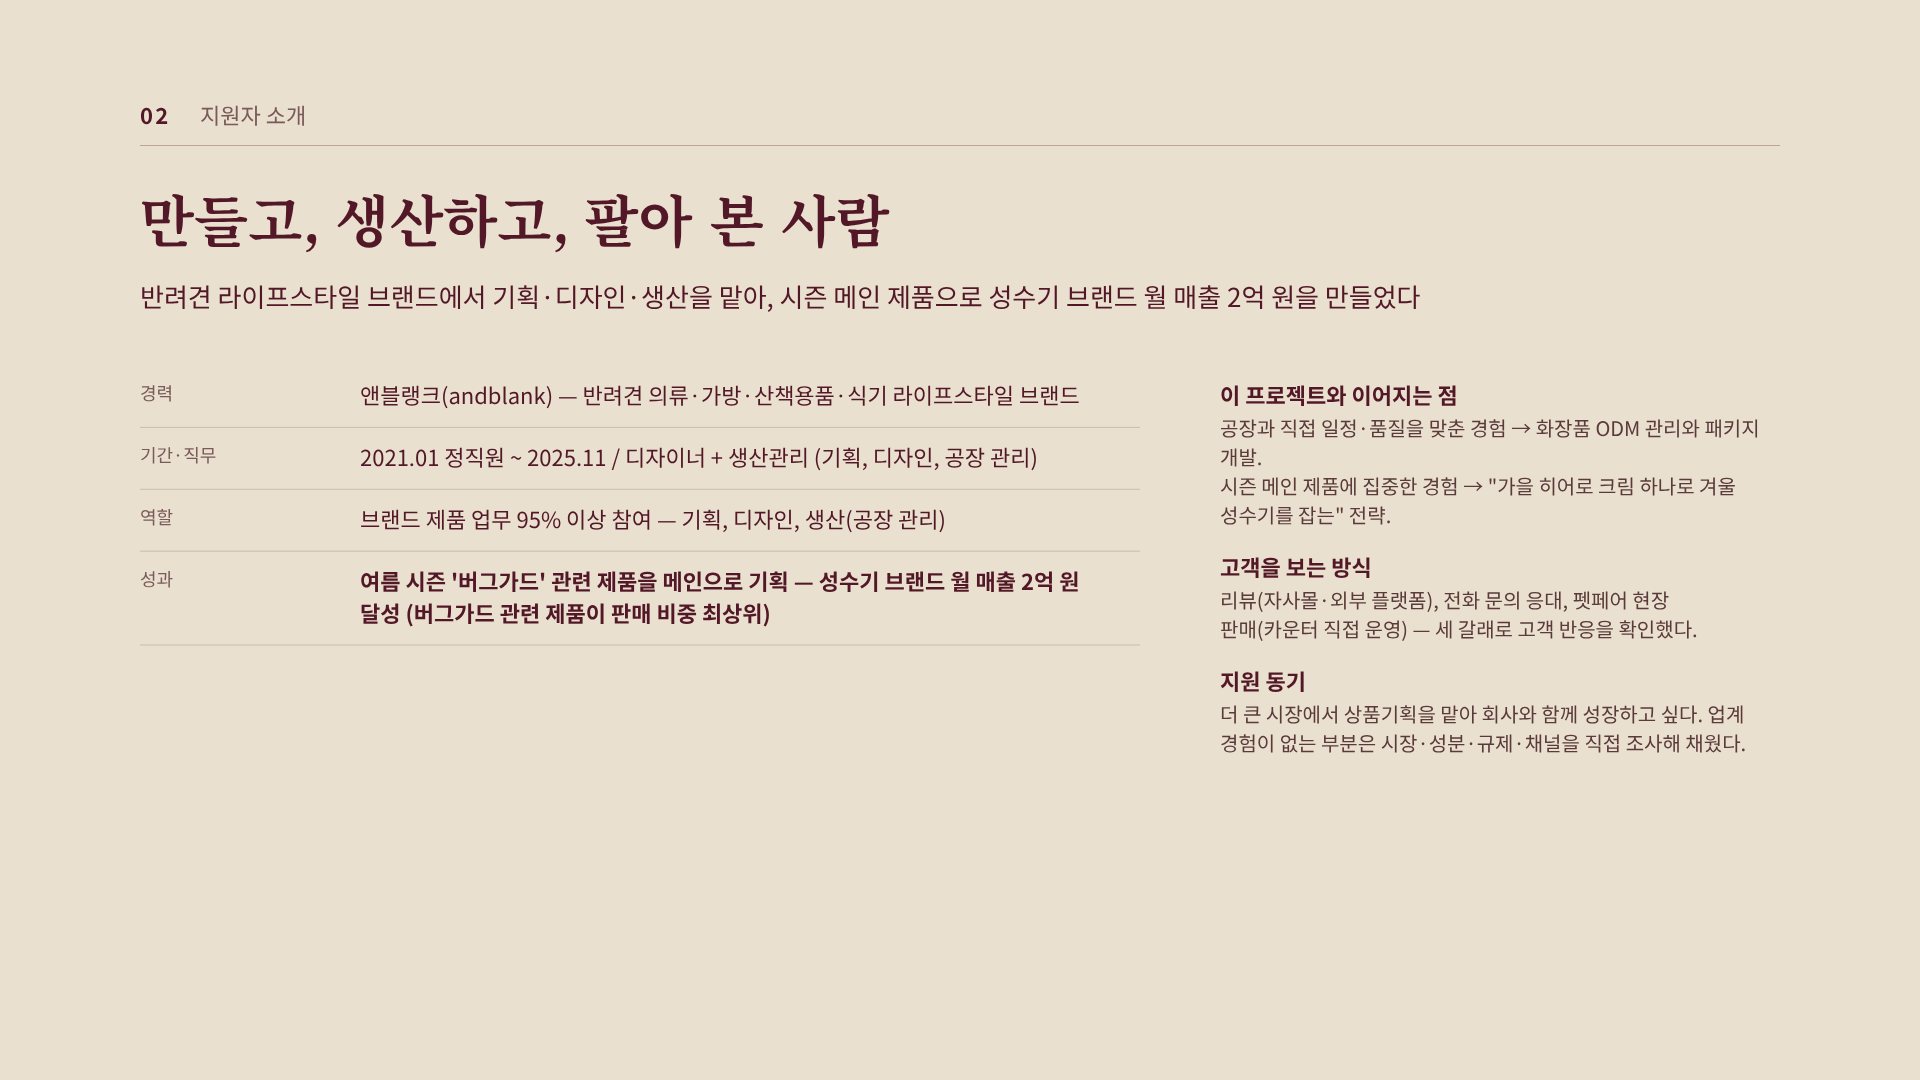
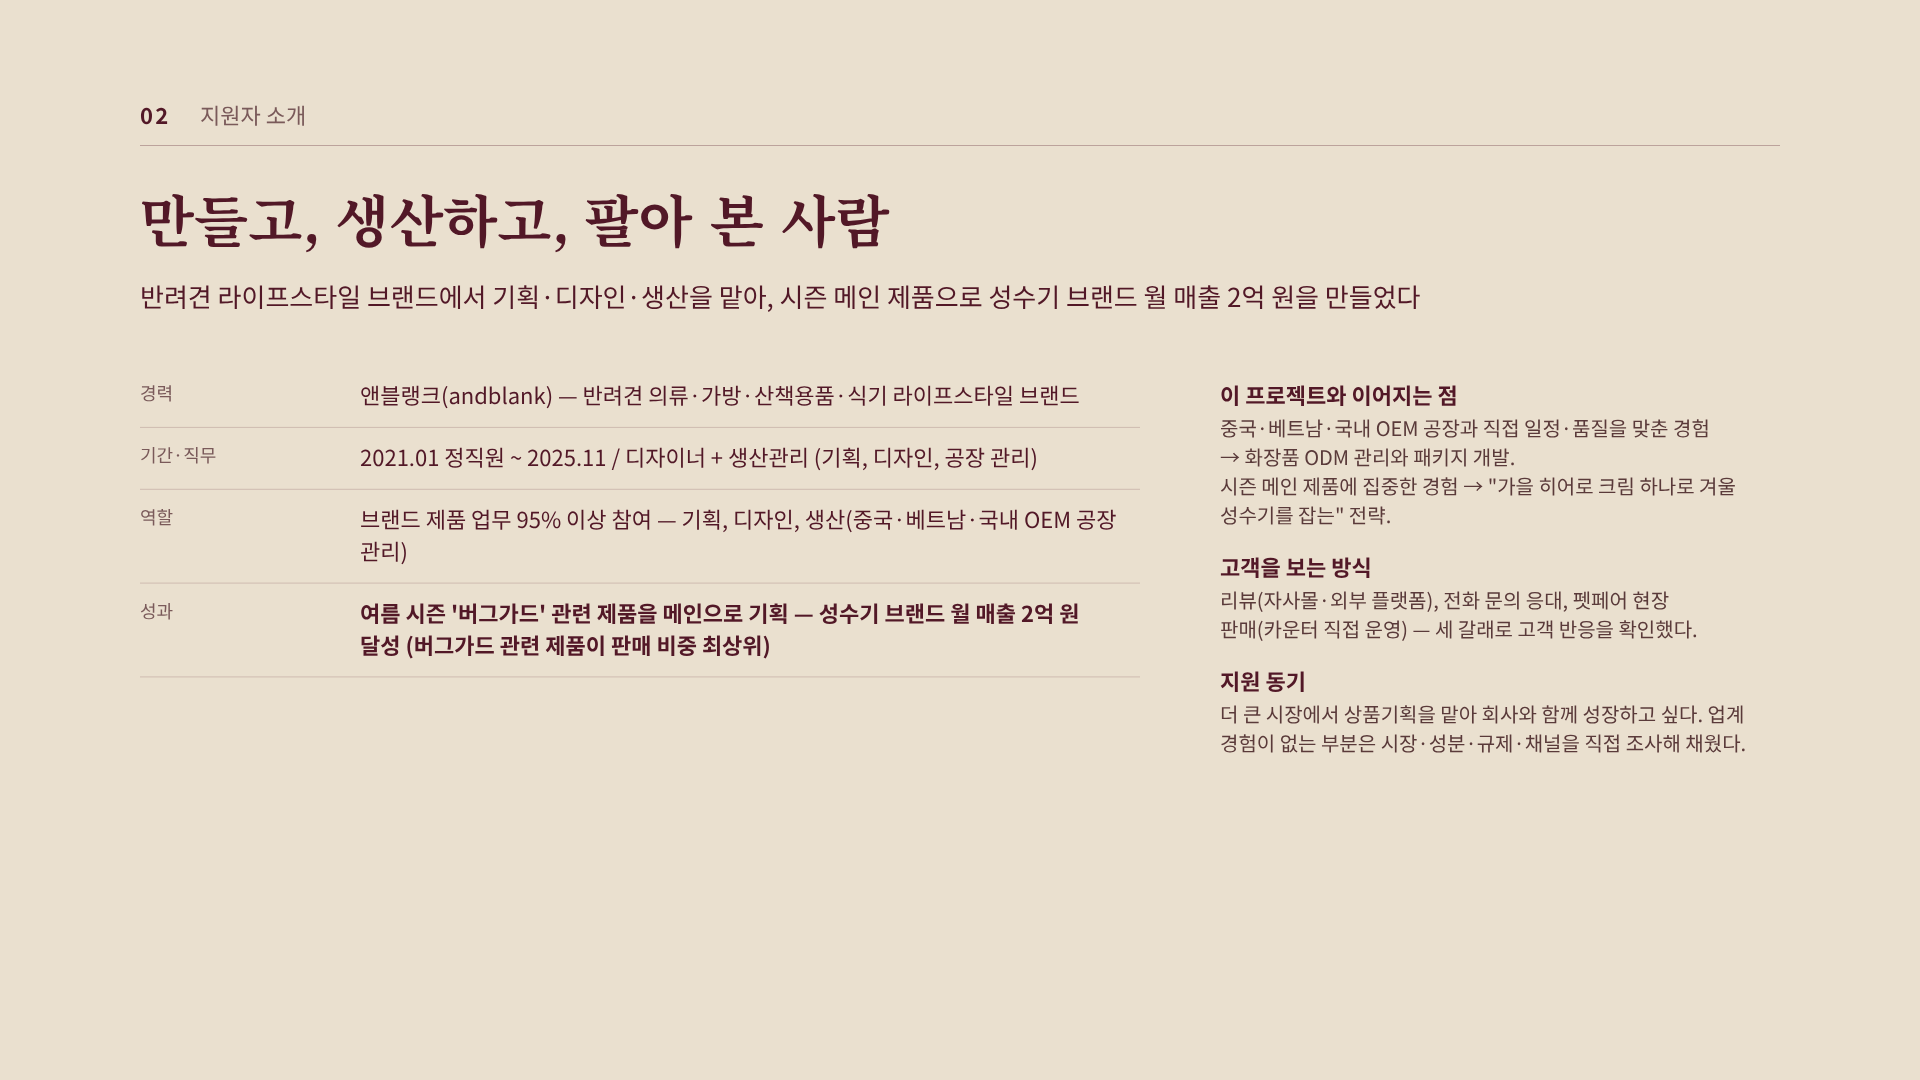
경력 사실(중국·베트남·국내 OEM) 반영: 원고 0-1·면접 준비·지원사별 준비·슬라이드 02 + 클리오 BM 인턴 준비
Claude-Session: https://claude.ai/code/session_01MXYaLybSstgexbFSnpQ7Pc

diff --git a/포트폴리오/figma_svg/src/sA.py b/포트폴리오/figma_svg/src/sA.py
@@ -2,8 +2,8 @@ from lib import *
 AI="AI로 생성한 가상 브랜드 목업 (일부 합성·보정)"
 def s02():
     s=std(2,"지원자 소개","만들고, 생산하고, 팔아 본 사람","반려견 라이프스타일 브랜드에서 기획·디자인·생산을 맡아, 시즌 메인 제품으로 성수기 브랜드 월 매출 2억 원을 만들었다")
-    table(s,140,380,[220,780],[["경력","앤블랭크(andblank) — 반려견 의류·가방·산책용품·식기 라이프스타일 브랜드"],["기간·직무","2021.01 정직원 ~ 2025.11 / 디자이너 + 생산관리 (기획, 디자인, 공장 관리)"],["역할","브랜드 제품 업무 95% 이상 참여 — 기획, 디자인, 생산(공장 관리)"],["성과","여름 시즌 '버그가드' 관련 제품을 메인으로 기획 — 성수기 브랜드 월 매출 2억 원 달성 (버그가드 관련 제품이 판매 비중 최상위)"]],firstMute=True,gap=30,bold=lambda r,c:r==3 and c==1)
-    bullets(s,1220,380,560,[("이 프로젝트와 이어지는 점","공장과 직접 일정·품질을 맞춘 경험 → 화장품 ODM 관리와 패키지 개발.\n시즌 메인 제품에 집중한 경험 → \"가을 히어로 크림 하나로 겨울 성수기를 잡는\" 전략."),("고객을 보는 방식","리뷰(자사몰·외부 플랫폼), 전화 문의 응대, 펫페어 현장 판매(카운터 직접 운영) — 세 갈래로 고객 반응을 확인했다."),("지원 동기","더 큰 시장에서 상품기획을 맡아 회사와 함께 성장하고 싶다. 업계 경험이 없는 부분은 시장·성분·규제·채널을 직접 조사해 채웠다.")],22)
+    table(s,140,380,[220,780],[["경력","앤블랭크(andblank) — 반려견 의류·가방·산책용품·식기 라이프스타일 브랜드"],["기간·직무","2021.01 정직원 ~ 2025.11 / 디자이너 + 생산관리 (기획, 디자인, 공장 관리)"],["역할","브랜드 제품 업무 95% 이상 참여 — 기획, 디자인, 생산(중국·베트남·국내 OEM 공장 관리)"],["성과","여름 시즌 '버그가드' 관련 제품을 메인으로 기획 — 성수기 브랜드 월 매출 2억 원 달성 (버그가드 관련 제품이 판매 비중 최상위)"]],firstMute=True,gap=30,bold=lambda r,c:r==3 and c==1)
+    bullets(s,1220,380,560,[("이 프로젝트와 이어지는 점","중국·베트남·국내 OEM 공장과 직접 일정·품질을 맞춘 경험\n→ 화장품 ODM 관리와 패키지 개발.\n시즌 메인 제품에 집중한 경험 → \"가을 히어로 크림 하나로 겨울 성수기를 잡는\" 전략."),("고객을 보는 방식","리뷰(자사몰·외부 플랫폼), 전화 문의 응대, 펫페어 현장 판매(카운터 직접 운영) — 세 갈래로 고객 반응을 확인했다."),("지원 동기","더 큰 시장에서 상품기획을 맡아 회사와 함께 성장하고 싶다. 업계 경험이 없는 부분은 시장·성분·규제·채널을 직접 조사해 채웠다.")],22)
     return s
 def s03():
     s=std(3,"기획 배경","왜 지금, 왜 장벽인가","이미 1위가 있는 장벽 크림 시장에서, 신규 브랜드는 무엇으로 선택받을 수 있는가?","근거: 한국신용평가 산업 보고서 · 화해 트렌드 리포트 보도(2026) · 화해 글로벌 랭킹(2026-11) · Forbes(2026) · 네이버 데이터랩(2025-11~2026-11)")

diff --git a/포트폴리오/지원사별_준비.md b/포트폴리오/지원사별_준비.md
@@ -34,7 +34,7 @@
 |---|---|---|
 | 시즌 메인 상품(버그가드) 기획 | 히어로 SKU 선정·시즌 출시 기획, 판매 비중 최상위 제품군 운영 | ANUA (우대: 히어로 제품 기획) |
 | 리뷰·전화 문의·펫페어 반응 확인 | 소비자 VOC 수집·분석 → 다음 기획 반영 | ANUA (필수: 소비자 데이터 기반 기획) |
-| 공장 일정·품질 관리 | 제조사(OEM/ODM) 생산 일정·품질 관리, 납기 조율 | NINELESS (필수), ANUA (필수: 개발 일정 관리) |
+| 공장 일정·품질 관리 (**중국·베트남·국내 OEM**) | 해외·국내 제조사(OEM/ODM) 생산 일정·품질 관리, 납기 조율, 해외 협력사 커뮤니케이션 | NINELESS (필수), ANUA (필수: 개발 일정 관리) |
 | 판매 보고 재생산 결정 | 판매·재고 기반 수요 예측, 재생산 시점·수량 결정 | **NINELESS 필수 요건** |
 | 디자인 (제품·패키지) | 용기·단상자·라벨 등 부자재 사양 결정, 패키지 디자인 | NINELESS (부자재), 리꼼 |
 | 온결 포트폴리오 | 트렌드 리서치 → 기획안 구조화, 경쟁 9개 비교, 출시 일정 역산 | 세 곳 모두 |
@@ -91,7 +91,7 @@
 
 ### 이력서 경력란에 넣을 표현 (2장 변환표 기준)
 - 시즌 메인 상품(버그가드) 기획 → 성수기 브랜드 월 매출 2억 원
-- 제조 공장 생산 일정·품질 관리, 납기 조율
+- 중국·베트남·국내 OEM 공장 생산 일정·품질 관리, 납기 조율
 - 제품·패키지 디자인 (부자재 사양 결정)
 - 리뷰·전화 문의·펫페어 현장 판매로 고객 반응 수집 → 다음 기획 반영
 - (사실 확인 후 추가) 관리 SKU 수, 재생산 결정 사례, 부자재 발주 경험
@@ -112,13 +112,13 @@
 - 회사(④): 브랜드 페이스팩토리(홈 뷰티 디바이스), 2025 매출 79억, 2026-07 하이퍼코퍼레이션에 인수
 
 ### 자기소개 문단
-> 반려동물 라이프스타일 브랜드에서 약 5년 동안 제품 기획과 디자인, 생산관리를 함께 맡아, 기획한 제품이 공장에서 일정과 품질에 맞게 양산되도록 관리했습니다. 여름 시즌 '버그가드' 관련 제품을 메인으로 기획해 성수기 브랜드 월 매출 2억 원을 만들었고, 출시 뒤 리뷰와 문의로 들은 고객 반응을 다음 제품 개선에 반영했습니다.
+> 반려동물 라이프스타일 브랜드에서 약 5년 동안 제품 기획과 디자인, 생산관리를 함께 맡아, 중국·베트남과 국내 OEM 공장에서 기획한 제품이 일정과 품질에 맞게 양산되도록 관리했습니다. 여름 시즌 '버그가드' 관련 제품을 메인으로 기획해 성수기 브랜드 월 매출 2억 원을 만들었고, 출시 뒤 리뷰와 문의로 들은 고객 반응을 다음 제품 개선에 반영했습니다.
 > 뷰티 분야를 준비하며 기초 스킨케어 라인을 시장 조사부터 처방 방향, 출시 일정, 리스크 관리까지 직접 기획했습니다. 페이스팩토리의 디바이스 PM으로서 기획부터 양산·출시 후 개선까지 여러 부서와 협력사를 잇는 역할을 하고 싶습니다.
 
 ### 면접 대비 [해석]
 1. "디바이스(기구·회로) 경험이 없는데?" → 디자인·생산 부서와 공장 사이에서 사양·일정·품질을 맞춘 경험이 PM 업무의 핵심과 같다. 기술 사양은 입사 후 빠르게 배우겠다고 솔직히.
 2. "출시 후 개선 과제를 어떻게 정하나?" → 리뷰·문의 VOC를 모아 반복되는 불만부터 우선순위 (이전 회사 사례 — 사실 확인 필요), 온결의 지표 설계(21장)
-3. "중국 공장 소싱 경험은?" → **앤블랭크에서 해외 공장과 일한 경험이 있는지 사용자 확인 필요.** 없으면 국내 공장 관리 경험으로 답한다.
+3. "중국 공장 소싱 경험은?" → **있다 (사용자 확인 11-28): 중국·베트남 공장 OEM 작업과 국내 OEM 작업.** 해외 공장과 샘플·양산 일정, 품질 이슈를 어떻게 맞췄는지 사례 1개를 숫자(리드타임·수량)와 함께 준비한다.
 
 ---
 
@@ -137,3 +137,23 @@
 ### 짚을 점 [해석]
 - 자격이 "신입/경력 1년 미만"이라 **경력 5년은 오히려 과잉으로 보일 수 있다.** 희망 연봉을 기재해야 하므로, 신입·주니어 연봉대를 감수할지 사용자가 먼저 정한다.
 - 포트폴리오는 온결 23장 중 광고(16)·패밀리룩(17)·런칭 마케팅(14)·타깃(04~05)을 앞으로 빼서 마케팅 관점으로 보이게 하는 것을 권한다.
+
+---
+
+## 8. 클리오 — BM 인턴 (힐링버드·타입넘버, 바디헤어케어) (마감 12/11)
+
+- 공고: [사람인 55552101](https://www.saramin.co.kr/zf_user/jobs/relay/view?rec_idx=55552101) "2026년도 하반기 신입(인턴) 및 경력사원 채용" 중 **BM (인턴)** 부문 · 매출 3,289억(보도)
+- 업무 [확인]: 샘플 품평 기획·운영과 결과 정리, 국내외(미국·일본·동남아) 헤어·바디 시장·경쟁사 조사와 정기 리포팅, 소비자 리뷰 분석 → 신제품·리뉴얼 컨셉 아이디어, OEM/ODM 커뮤니케이션·샘플링 테스트 등 개발 일정·자료 관리, 상품·채널별 매출 데이터 리포트, 브랜딩 컨셉·무드보드, **상세페이지·패키지·SNS 콘텐츠 기획 지원**
+- 필수 [확인]: "상품기획·BM·브랜드 마케팅 등 유관 직무 인턴 또는 실무 경력 보유" · 우대: 뷰티 브랜드 인턴, 외국어, 헤어·바디·화장품 관심, SNS 채널 운영, **무드보드·상세페이지 등 비주얼 기획 포트폴리오** · **포트폴리오 필수**
+- 정규직 전환 조건: 공고 텍스트에서 [미확인]
+
+### 자기소개 문단
+> 반려동물 라이프스타일 브랜드에서 약 5년 동안 제품 기획과 디자인, 중국·베트남·국내 OEM 생산관리를 맡아, 시즌 메인 제품으로 성수기 브랜드 월 매출 2억 원을 만들었습니다. 리뷰·문의·현장 판매에서 고객 반응을 모아 다음 기획에 반영해 왔습니다.
+> 화장품 BM을 준비하며 기초 스킨케어 브랜드 '온결'을 직접 기획해, 경쟁 제품 비교와 소비자 조사부터 패키지·광고·상세페이지까지 만들었습니다. 힐링버드·타입넘버의 품평과 시장 조사, OEM 일정 관리, 상세페이지·패키지 기획을 빠르게 지원하며 BM 실무를 제대로 배우고 싶습니다.
+
+### 포트폴리오 구성 제안 [해석]
+- 우대 조건이 "무드보드·상세페이지 비주얼 기획"이라 **15 브랜딩(패키지 평면도) · 16 광고·상세페이지 · 17 패밀리룩**을 앞쪽에 둔다.
+- 헤어·바디 카테고리는 포트폴리오에 없으므로, 면접에서 "기초 라인에서 쓴 방법(경쟁 비교·리뷰 분석·출시 순서)을 헤어·바디에도 그대로 쓰겠다"로 연결한다.
+
+### 짚을 점
+- 인턴이라 처우·전환 조건을 면접에서 확인한다. 경력 5년 지원자가 인턴에 지원하는 이유("화장품 BM을 대기업에서 처음부터 제대로 배우려고")를 준비한다.

diff --git a/포트폴리오/상품기획_포트폴리오.md b/포트폴리오/상품기획_포트폴리오.md
@@ -30,10 +30,10 @@
 |---|---|
 | 경력 | 앤블랭크(andblank) — 반려견 의류·가방·산책용품·식기 라이프스타일 브랜드 |
 | 기간·직무 | 2021.01 정직원 ~ 2025.11 / 디자이너 + 생산관리 (기획, 디자인, 공장 관리) |
-| 역할 | 브랜드 제품 업무 95% 이상 참여 — 기획, 디자인, 생산(공장 관리) |
+| 역할 | 브랜드 제품 업무 95% 이상 참여 — 기획, 디자인, 생산(중국·베트남·국내 공장 OEM 관리) |
 | 성과 | 여름 시즌 '버그가드' 관련 제품을 메인으로 기획 — 성수기 **브랜드 월 매출 2억 원** 달성 (버그가드 관련 제품이 판매 비중 최상위) |
 
-- **이 프로젝트와 이어지는 점**: 공장과 직접 일정·품질을 맞춰 본 경험은 화장품 ODM 관리와 패키지 개발로 이어진다. 시즌 상품 한 개에 집중해 매출을 만든 경험은 이 기획의 "가을 히어로 크림 하나로 겨울 성수기를 잡는" 전략과 같은 방식이다.
+- **이 프로젝트와 이어지는 점**: 중국·베트남·국내 OEM 공장과 직접 일정·품질을 맞춰 본 경험은 화장품 ODM 관리와 패키지 개발로 이어진다. 시즌 상품 한 개에 집중해 매출을 만든 경험은 이 기획의 "가을 히어로 크림 하나로 겨울 성수기를 잡는" 전략과 같은 방식이다.
 - **고객을 보는 방식**: 리뷰(자사몰·외부 플랫폼), 전화 문의 응대, 펫페어 현장 판매(카운터 직접 운영)로 고객 반응을 세 갈래에서 확인했다.
 - **지원 동기**: 더 큰 시장에서 상품기획을 맡아 회사와 함께 성장하고 싶다. 화장품 업계 경험이 없는 부분은 이 기획서로 시장·성분·규제·채널을 직접 조사해 채웠다.
 

diff --git a/포트폴리오/면접준비.md b/포트폴리오/면접준비.md
@@ -6,7 +6,7 @@
 
 ## 1. 1분 자기소개
 
-> 안녕하세요. 반려견 라이프스타일 브랜드 앤블랭크에서 약 5년 동안 디자이너와 생산관리를 맡았습니다. 제품을 기획하고, 디자인하고, 공장과 직접 일정·품질을 맞추는 일을 함께 했고, 여름 시즌 '버그가드' 관련 제품을 메인으로 기획해 성수기 브랜드 월 매출 2억 원을 만들었습니다.
+> 안녕하세요. 반려견 라이프스타일 브랜드 앤블랭크에서 약 5년 동안 디자이너와 생산관리를 맡았습니다. 제품을 기획하고, 디자인하고, 중국·베트남과 국내 OEM 공장과 직접 일정·품질을 맞추는 일을 함께 했고, 여름 시즌 '버그가드' 관련 제품을 메인으로 기획해 성수기 브랜드 월 매출 2억 원을 만들었습니다.
 > 리뷰와 전화 문의, 펫페어 현장 판매에서 고객 반응을 직접 보며 상품을 키웠는데, 이 방식을 더 큰 시장인 화장품에서 해 보고 싶어 기초 스킨케어 라인을 처음부터 기획해 봤습니다.
 > 건성 피부를 위한 수분 장벽 라인 '온결'로, 콘셉트부터 가격·채널, 처방 방향, 수량·손익, 광고와 상세페이지까지 하나의 논리로 이어지게 만들었습니다. 오늘 그 과정을 말씀드리겠습니다.
 

diff --git a/기획서/카톡피드백_1118.md b/기획서/카톡피드백_1118.md
@@ -74,3 +74,7 @@
 - 참고: 피드백을 준 송현준 님 카톡 이름이 '앤블랭크송현준' → 같은 회사 출신으로 보임 [추론]
 - [해석] 면접 연결 고리: 기획 → 디자인 → 생산(공장) 전 과정 경험 = 화장품 ODM 관리(5-6 제조사)·패키지 개발과 직접 연결. 시즌 히트 상품(여름 버그가드) 경험 = 우리 가을·겨울 시즌 출시 전략과 연결
 - [확인 11-20] 송현준 님은 앤블랭크 전 동료, 현재 두 사람 모두 퇴사.
+
+
+## 경력 사실 추가 (2026-11-28 사용자 확인)
+- 앤블랭크 생산관리: **중국·베트남 공장 OEM 작업 + 국내 공장 OEM 작업** 진행 [확인 — 사용자 진술]

diff --git a/기획서/스크랩공고_정리_1127.md b/기획서/스크랩공고_정리_1127.md
@@ -170,3 +170,6 @@
 | 티읕 [House of Balance] 콘텐츠 디자이너 | 디자인 | 미표기 | [리멤버 311273](https://career.rememberapp.co.kr/job/posting/311273) | 디자인 1~3년, 포트폴리오 필수. 직원 8명(④) |
 
 - 마감이 있는 피티씨(12/15)·큐라에스(12/17)는 지원 목록 진행 상황을 보고 12/10 전후에 한 번 알린다.
+
+
+> **11-28 사용자 결정: 클리오 BM 인턴 지원 / 네오미래는 신입·주니어 연봉대 감수하고 지원 / 경력 사실: 중국·베트남·국내 공장 OEM 작업.**
